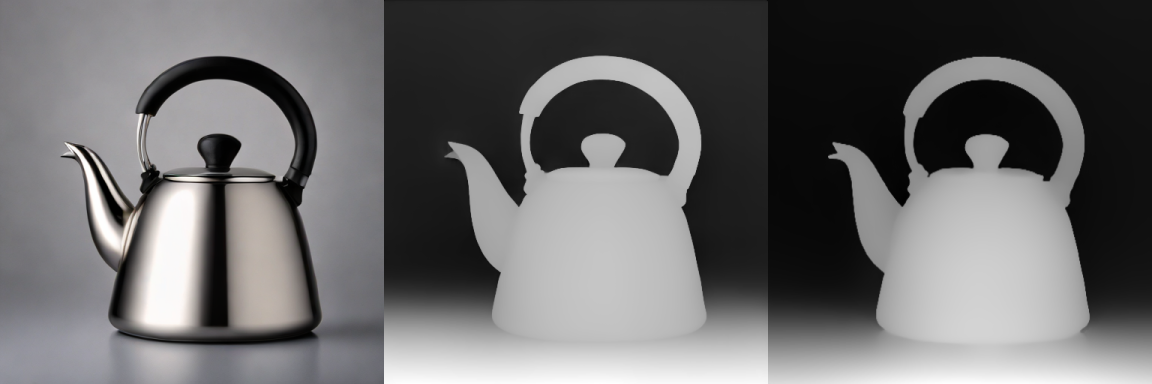
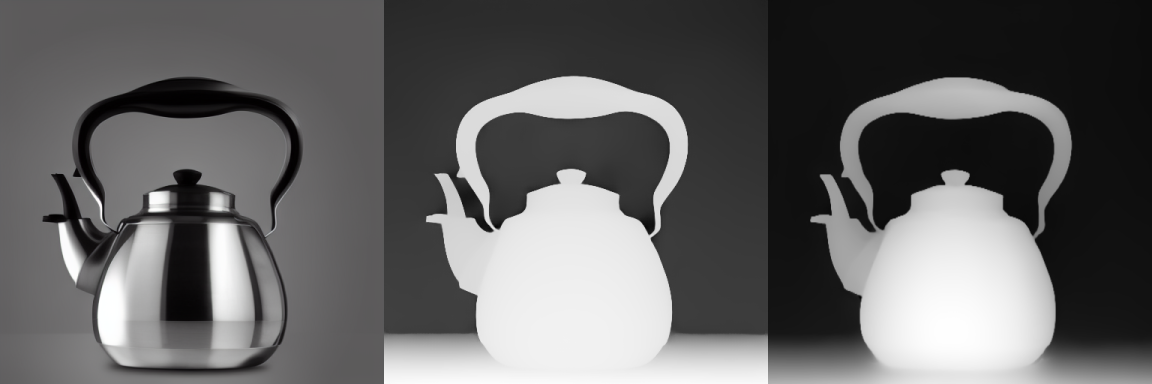
docs(pipeline): rerun the walkthrough with depth-pro-2 and sd15-coreml
Regenerates the figures and every number from a full run, and renders at 512x512 so the square capture is not cropped.

diff --git a/docs/pipeline.md b/docs/pipeline.md
@@ -7,12 +7,12 @@ Each command stores its output as a manifest in the cache and prints one NDJSON 
 ## 1. Diffuse
 
 ```sh
-splat diffuse "a single stainless steel kettle with a black handle, centered, plain mid-gray studio backdrop, soft even lighting, 3/4 view" --seed 4 -o kettle.png
+splat diffuse "a single stainless steel kettle with a black handle, centered, plain mid-gray studio backdrop, soft even lighting, 3/4 view" --seed 8 -o kettle.png
 ```
 
 ![The diffused kettle](images/01-diffuse.png)
 
-The default model is `sd15-coreml`, a 6-bit palettized SD 1.5 that renders 512 px and supports image-to-image (`sdxl-turbo-mlx` is the faster alternative, with a non-commercial license that `splat` prints on every run). A plain backdrop and a single centred subject matter: every later stage does better on an image like this, and the rest of this page keeps using this one file.
+The default model is `sd15-coreml`, a 6-bit palettized SD 1.5 that renders 512 px in about 35 s here, model load included, and supports image-to-image (`sdxl-turbo-mlx` is the alternative, with a non-commercial license that `splat` prints on every run). A plain backdrop and a single centred subject matter: every later stage does better on an image like this, and the rest of this page keeps using this one file.
 
 ## 2. Caption and embed
 
@@ -21,7 +21,7 @@ splat caption kettle.png -o caption.txt
 splat embed kettle.png -o kettle.npy
 ```
 
-The caption is `A shiny silver tea kettle with a black handle.` (`fastvlm-0.5b`, a `caption` manifest of 46 characters). The embedding is a normalized 512 dimensional float32 vector from `mobileclip2-s0`, stored as `.npy`. `embed --text "..."` produces the same kind of vector for a text query, and a dot product compares two of them.
+The caption is `A shiny silver tea kettle with a black handle and lid.` (`fastvlm-0.5b`, a `caption` manifest of 54 characters). The embedding is a normalized 512 dimensional float32 vector from `mobileclip2-s0`, stored as `.npy`. `embed --text "..."` produces the same kind of vector for a text query, and a dot product compares two of them.
 
 ## 3. Segment
 
@@ -32,35 +32,35 @@ splat segment kettle.png --model sam2-coreml --max-stickers 8 -o stickers/
 
 ![Automatic stickers from sam-mlx (top) and sam2-coreml (bottom)](images/02-segment-auto.png)
 
-Automatic segmentation fans out into one RGBA `sticker` per mask, largest first. The first cell of each row is the frame sized mask (shown as the backdrop with the kettle cut out), and the floor strip is another background mask. One mask is the whole kettle; the rest are parts: handle, spout, lid, knob, body. `--drop-background` removes the masks that cover most of the frame or span part of its edge.
+Automatic segmentation fans out into one RGBA `sticker` per mask, largest first. `sam2-coreml` (bottom) starts with the frame sized mask, shown as the backdrop with the kettle cut out, then finds the kettle, the handle, the body, the spout and the lid. `sam-mlx` (top) finds the handle and the backdrop inside it, then slices of the body's highlights and shadows. `--drop-background` removes the masks that cover most of the frame or span part of its edge.
 
 To say which object you mean, prompt the model instead:
 
 ```sh
-splat segment kettle.png --point 140,225 -o spout.png
-splat segment kettle.png --box 70,60,440,465 -o kettle-box.png
+splat segment kettle.png --point 92,330 -o spout.png
+splat segment kettle.png --box 55,100,410,495 -o kettle-box.png
 splat segment kettle.png --foreground -o kettle-cutout.png
 ```
 
 ![A point on the spout, a box around the kettle, and --foreground](images/03-segment-prompts.png)
 
-`--point x,y` (and `--not-point x,y` for background, both repeatable) and `--box x0,y0,x1,y1` take pixel coordinates in the source image and return one sticker. `--foreground` needs no prompt: it finds the box around the masks that are not background and box-prompts the model with it, which gives one clean cutout with the handle opening left open. `sam-mlx` and `sam2-coreml` return the same box on this image, `(83, 75, 346, 381)`, give or take a pixel. `sam2-coreml` takes a box or up to two points, because its converted prompt encoder takes exactly two.
+`--point x,y` (and `--not-point x,y` for background, both repeatable) and `--box x0,y0,x1,y1` take pixel coordinates in the source image and return one sticker. `--foreground` needs no prompt: it finds the box around the masks that are not background and box-prompts the model with it, which gives one cutout of the kettle, though the cloudy backdrop inside the handle is only partly removed. For the box prompt, `sam-mlx` returns `(58, 102, 345, 390)` and `sam2-coreml` `(57, 103, 347, 400)` as `x, y, width, height`, within ten pixels of each other. `sam2-coreml` takes a box or up to two points, because its converted prompt encoder takes exactly two.
 
 A sticker is a tight crop. Its `bbox` in the manifest places it back in the source image, which is how a sticker works as a mask for the next stages.
 
 ## 4. Depth
 
 ```sh
-splat depth kettle.png --model depth-pro -o depth-pro.png
+splat depth kettle.png -o depth-pro-2.png
 splat depth kettle.png --model depth-anything-v2-coreml -o depth-anything.png
 ```
 
-![The image, depth-pro, and depth-anything-v2-coreml (near is bright)](images/04-depth.png)
+![The image, depth-pro-2, and depth-anything-v2-coreml (near is bright)](images/04-depth.png)
 
-`depth-pro-2` is the default and also metric (research-only license, needs `models pull depth-pro-2` for the H+ and focal weights). `depth-pro` is metric: the `depth_map` is in metres and records the focal length (1846 px, a 15.8 degree field of view). `depth-anything-v2-coreml` is faster but only relative disparity, with no focal length. Both are cached losslessly as `.npy`, and `-o` writes a viewable PNG of them. Only the metric one can become geometry, and `mesh` says so if you hand it the other:
+`depth-pro-2` is the default. It is metric: the `depth_map` is in metres and records the focal length (971 px, a 29.5 degree field of view). Its weights have a research-only license, and `splat models pull depth-pro-2` fetches them. `depth-anything-v2-coreml` is faster but only relative disparity, with no focal length. Both are cached losslessly as `.npy`, and `-o` writes a viewable PNG of them. Only the metric one can become geometry, and `mesh` says so if you hand it the other:
 
 ```text
-error: heightfield needs metric depth in metres, but 69163aee51908296 is relative disparity (depth:depth-anything-v2-coreml); use a metric model such as depth-pro-2.
+error: heightfield needs metric depth in metres, but 9e92f96c07db3f60 is relative disparity (depth:depth-anything-v2-coreml); use a metric model such as depth-pro-2.
 ```
 
 ## 5. Upscale
@@ -79,7 +79,7 @@ splat upscale kettle.png -o kettle-x4.png
 splat gaussian kettle.png --score -o kettle.ply
 ```
 
-`sharp` reconstructs a Gaussian splat from the single image: 1,179,648 Gaussians, an 80 MB `.ply` in the OpenGL convention (+Y up), SH degree 0, in metres. It takes about 16 s here. `--score` renders source view 0 with Blender and records the comparison against the photo in the cloud's `quality`: PSNR 36.51 and SSIM 0.9671, plus floater statistics. `splat manifest get <id>` prints them.
+`sharp` reconstructs a Gaussian splat from the single image: 1,179,648 Gaussians, an 80 MB `.ply` in the OpenGL convention (+Y up), SH degree 0, in metres. It takes about 75 s here, model load included. `--score` renders source view 0 with Blender and records the comparison against the photo in the cloud's `quality`: PSNR 38.09 and SSIM 0.9719, plus floater statistics. `splat manifest get <id>` prints them.
 
 A single photo has a backdrop, and SHARP reconstructs that too, as a wall behind the subject. Hand `gaussian` the cutout from step 3 and it keeps only the Gaussians that project inside it:
 
@@ -87,31 +87,31 @@ A single photo has a backdrop, and SHARP reconstructs that too, as a wall behind
 splat gaussian kettle.png --mask kettle-cutout.png -o kettle-masked.ply
 ```
 
-That is 343,100 Gaussians, a 23 MB file. Gaussians that project inside the mask but sit more than half a subject size behind its nearest surface are dropped too, since they belong to the wall in line with the subject. The masked cloud is a cached child of the full one, so changing the mask does not repeat the reconstruction.
+That is 304,158 Gaussians, a 21 MB file. Gaussians that project inside the mask but sit more than half a subject size behind its nearest surface are dropped too, since they belong to the wall in line with the subject. The masked cloud is a cached child of the full one, so changing the mask does not repeat the reconstruction.
 
 ## 7. Render
 
 ```sh
-splat render kettle.ply -o full.png
-splat render kettle-masked.ply -o view0.png --view 0
-splat render kettle-masked.ply -o orbit.png --azimuth 25 --elevation 8
-splat render kettle-masked.ply -o side.png --azimuth 45 --elevation 8
+splat render kettle.ply --width 512 --height 512 -o full.png
+splat render kettle-masked.ply --width 512 --height 512 -o view0.png --view 0
+splat render kettle-masked.ply --width 512 --height 512 -o orbit.png --azimuth 25 --elevation 8
+splat render kettle-masked.ply --width 512 --height 512 -o side.png --azimuth 45 --elevation 8
 ```
 
 ![The full cloud, the masked cloud from the capture camera, and the masked cloud orbited by 25 and 45 degrees](images/06-gaussian.png)
 
-`render` runs Blender (set `SPLAT_BLENDER_BIN` if it is not on `PATH`) and produces an `image` manifest. By default it frames the whole cloud, which is why the backdrop wall makes the kettle small in the first cell. `--view 0` renders from the source camera and reproduces the photo. Orbiting shows the limit of one image: SHARP only knows the visible side, so the kettle gets thin as you turn away. `--zoom` scales the framing independent of the cloud's units (`1` fits the subject, `2` is twice as close), `--distance` is absolute in the cloud's units, and `--fov` and `--look-at x,y,z` adjust the rest.
+`render` runs Blender (set `SPLAT_BLENDER_BIN` if it is not on `PATH`) and produces an `image` manifest. The default frame is 1280x720, which crops the top of a square capture, so these use `--width 512 --height 512`. The first cell is the full cloud with the backdrop wall behind the kettle. `--view 0` renders from the source camera and reproduces the photo. Orbiting shows the limit of one image: SHARP only knows the visible side, so the kettle gets thin as you turn away. `--zoom` scales the framing independent of the cloud's units (`1` fits the subject, `2` is twice as close), `--distance` is absolute in the cloud's units, and `--fov` and `--look-at x,y,z` adjust the rest.
 
 ## 8. Mesh
 
 ```sh
-splat mesh @<depth-pro-id> -o relief.glb
+splat mesh @<depth-id> -o relief.glb
 splat mesh kettle-masked.ply -o kettle.glb
 ```
 
-![The heightfield from depth-pro (left) and the isosurface of the masked cloud (right)](images/07-mesh.png)
+![The heightfield from depth-pro-2 (left) and the isosurface of the masked cloud (right)](images/07-mesh.png)
 
-`mesh` has two paths. A metric depth map becomes a textured heightfield, a relief of everything in the photo (262,144 vertices, 515,829 faces, 11.7 MB). A Gaussian cloud becomes an isosurface of its density field with per-vertex colours (77,832 vertices, 155,588 faces, 3.1 MB), which is the kettle alone because the backdrop was masked out. Both are `shape_3d` manifests with typed counts, written as `.glb`, `.obj`, `.ply` or `.gltf` by the extension.
+`mesh` has two paths. A metric depth map becomes a textured heightfield, a relief of everything in the photo (262,144 vertices, 512,782 faces, 11.6 MB). A Gaussian cloud becomes an isosurface of its density field with per-vertex colours (65,847 vertices, 131,316 faces, 2.6 MB), which is the kettle alone because the backdrop was masked out. Both are `shape_3d` manifests with typed counts, written as `.glb`, `.obj`, `.ply` or `.gltf` by the extension.
 
 ## 9. Export
 
@@ -120,19 +120,19 @@ splat export kettle-masked.ply -o kettle.spz
 splat export kettle-masked.ply -o kettle.web.splat --profile web-delivery
 ```
 
-`export` writes any manifest in the format of the extension, with a sidecar. For the masked cloud: `.ply` 23.3 MB, `.spz` 3.4 MB, `.web.splat` 11.0 MB (342,992 points after compression). `splat validate kettle-masked.ply --strict` checks a cloud's invariants and `splat info` prints its count, SH degree, bounds and cameras.
+`export` writes any manifest in the format of the extension, with a sidecar. For the masked cloud: `.ply` 20.7 MB, `.spz` 3.0 MB, `.web.splat` 9.7 MB (304,030 points after compression). `splat validate kettle-masked.ply --strict` checks a cloud's invariants and `splat info` prints its count, SH degree, bounds and cameras.
 
 ## Lineage
 
 Every output remembers its parents, so `splat manifest get <id>` on the mesh shows how it was made, down to the prompt, with each model's license:
 
 ```text
-c6942b0ba8451acd  shape_3d  mesh:isosurface
-└── 257ac7c3f0d115c0  gaussian_cloud  mask
-    ├── cdb0a214b4ab2afd  gaussian_cloud  gaussian:sharp  Apple-ML-Research
-    │   └── 6e4bc802376678d7  image  diffuse:sdxl-turbo-mlx  StabilityAI-NC-Community
-    └── 5a27b3a26ccc1d45-000  sticker  segment:sam-mlx  Apache-2.0
-        └── 6e4bc802376678d7  image  diffuse:sdxl-turbo-mlx  StabilityAI-NC-Community
+32b758ab004bad29  shape_3d  mesh:isosurface
+└── f8a3df4c69a567ed  gaussian_cloud  mask
+    ├── e5b2e55cd308fdc6  gaussian_cloud  gaussian:sharp  Apple-ML-Research
+    │   └── fe498117241c9aec  image  diffuse:sd15-coreml  OpenRAIL-M
+    └── 5db18ceaa1189c71-000  sticker  segment:sam-mlx  Apache-2.0
+        └── fe498117241c9aec  image  diffuse:sd15-coreml  OpenRAIL-M
 ```
 
 Re-running any command with the same inputs is a cache hit. `splat manifest list`, `get`, `export`, `rm` and `gc` manage the cache.

diff --git a/README.md b/README.md
@@ -74,7 +74,7 @@ Most options can also come from a `SPLAT_*` environment variable (`splat env` li
 | `--model` | `sd15-coreml` | see [Models](#models) |
 | `--negative` | | negative prompt |
 | `--steps` | model default | denoising steps |
-| `--strength` | | image-to-image change, 0 to 1 |
+| `--strength` | 0.7 | image-to-image change, 0 to 1 |
 | `--seed` | | |
 | `--width`, `--height` | 512 | multiples of 64, MLX backend only |
 | `--device`, `-o` | | |
@@ -151,7 +151,7 @@ Every cloud records a `quality` report in its metadata (opacity histogram, near-
 
 | Stage | Model | Runtime | License |
 |---|---|---|---|
-| `diffuse` | `sd15-coreml` | Core ML | CreativeML OpenRAIL-M |
+| `diffuse` | `sd15-coreml` | Core ML | OpenRAIL-M |
 | `diffuse` | `sdxl-turbo-mlx` | MLX | Stability AI non-commercial |
 | `diffuse` | `sd21-coreml` | Core ML | OpenRAIL-M |
 | `caption` | `fastvlm-0.5b` | torch | Apple ML Research (research only) |
